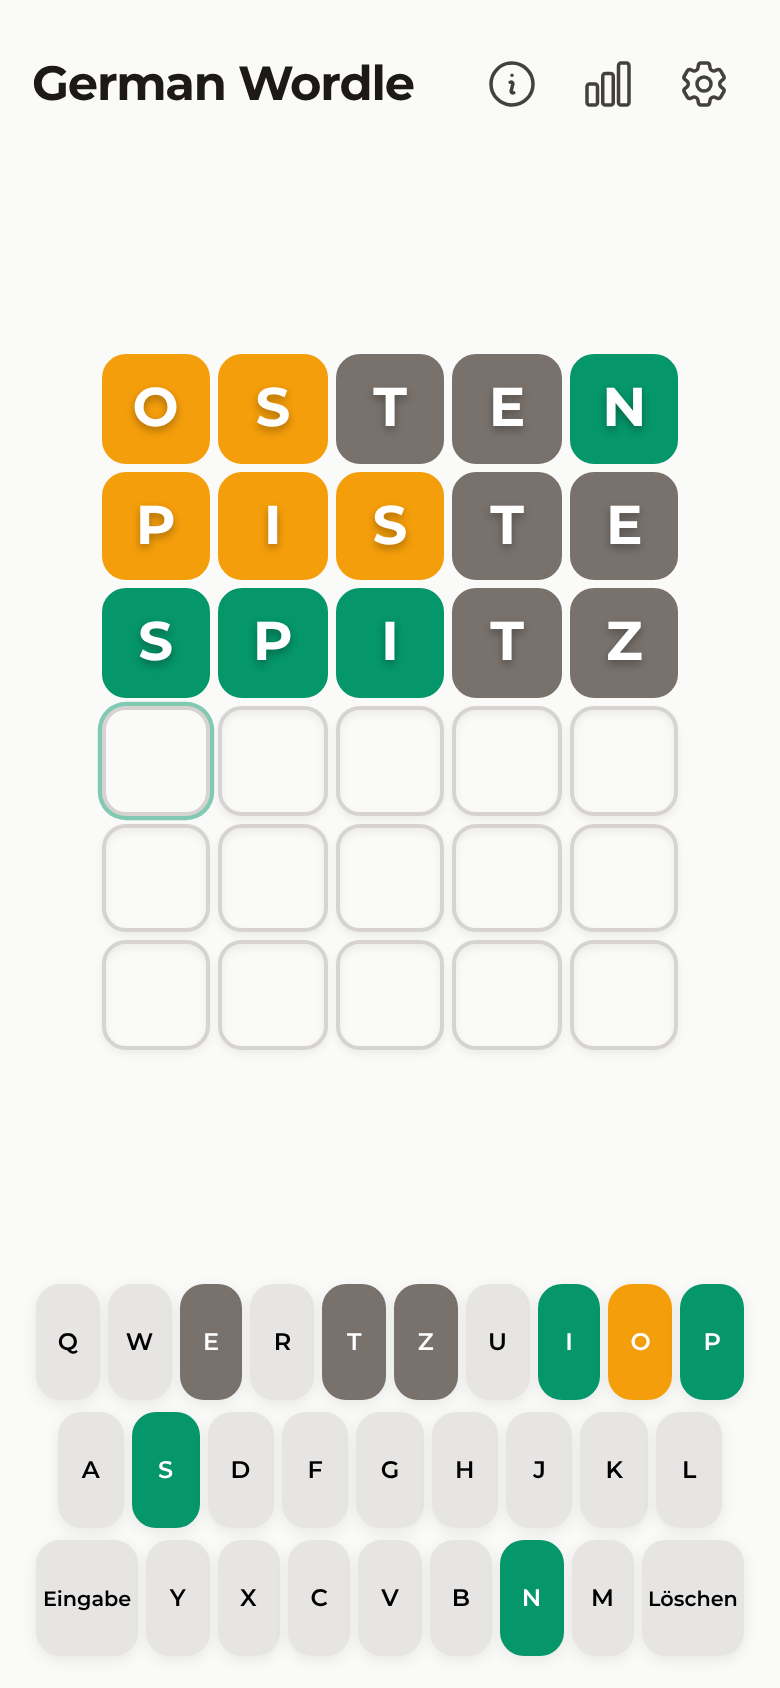
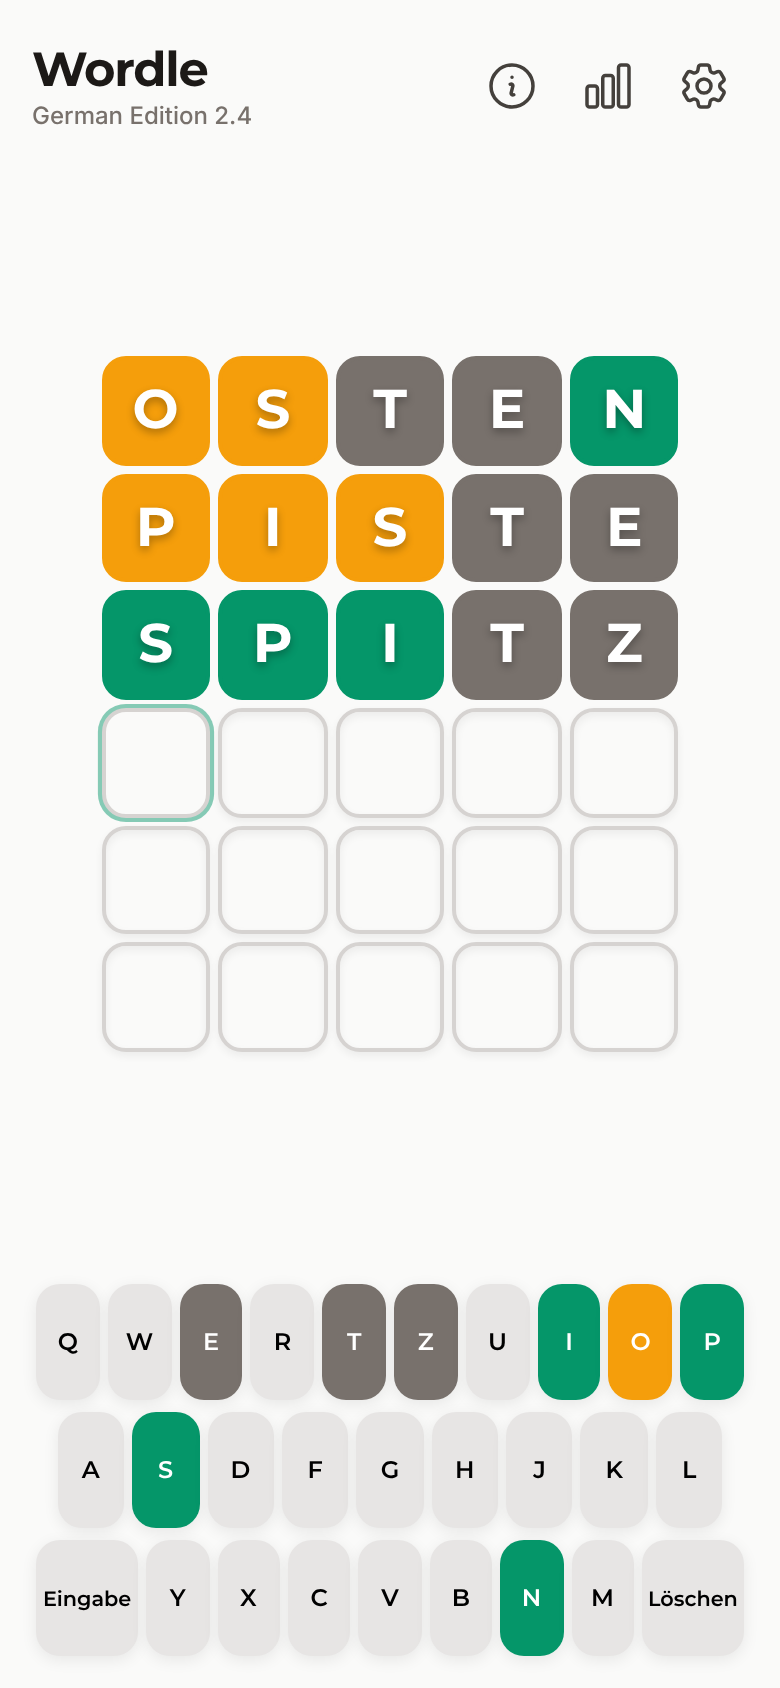
Keep title "Wordle", add "German Edition X.Y" subtitle from package version
Reverts the "German Wordle" rename. The header subtitle is derived from
package.json (major.minor) at build time; the release script updates the
README line to match.

Claude-Session: https://claude.ai/code/session_01BawsojWPZtLovEgYkkez69

diff --git a/src/App.tsx b/src/App.tsx
@@ -12,6 +12,7 @@ import { SettingsModal } from './components/modals/SettingsModal'
 import { StatsModal } from './components/modals/StatsModal'
 import {
   GAME_COPIED_MESSAGE,
+  GAME_SUBTITLE,
   GAME_TITLE,
   SHARE_FAILED_MESSAGE,
   UPDATE_AVAILABLE_MESSAGE,
@@ -103,9 +104,14 @@ function App() {
     <div className="flex min-h-[100dvh] flex-col bg-nature-stone-50 pt-[max(0.5rem,env(safe-area-inset-top))] pb-[max(0.5rem,env(safe-area-inset-bottom))] transition-colors duration-300 dark:bg-nature-stone-900">
       <div className="game-column flex min-h-0 flex-1 flex-col">
         <header className="mt-3 mb-4 flex w-full items-center gap-1">
-          <h1 className="min-w-0 grow truncate font-display text-[clamp(1rem,10vw-15px,1.75rem)] font-bold tracking-tight text-nature-stone-900 dark:text-nature-stone-50">
-            {GAME_TITLE}
-          </h1>
+          <div className="min-w-0 grow">
+            <h1 className="truncate font-display text-[clamp(1.5rem,6vw,2.25rem)] leading-tight font-bold tracking-tight text-nature-stone-900 dark:text-nature-stone-50">
+              {GAME_TITLE}
+            </h1>
+            <p className="truncate text-xs font-medium text-nature-stone-500 dark:text-nature-stone-400">
+              {GAME_SUBTITLE}
+            </p>
+          </div>
           <button
             type="button"
             className={headerIconClass}

diff --git a/vite.config.ts b/vite.config.ts
@@ -3,8 +3,12 @@ import { defineConfig } from 'vite'
 import react from '@vitejs/plugin-react'
 import tailwindcss from '@tailwindcss/vite'
 import { VitePWA } from 'vite-plugin-pwa'
+import pkg from './package.json'
 
 export default defineConfig({
+  define: {
+    __APP_VERSION__: JSON.stringify(pkg.version),
+  },
   build: {
     sourcemap: false,
   },
@@ -32,7 +36,7 @@ export default defineConfig({
       ],
       manifest: {
         short_name: 'Wordle',
-        name: 'German Wordle',
+        name: 'Wordle',
         description: 'Wordle auf Deutsch',
         start_url: '.',
         display: 'standalone',

diff --git a/src/App.test.tsx b/src/App.test.tsx
@@ -1,6 +1,6 @@
 import { render, screen } from '@testing-library/react'
 import App from './App'
-import { GAME_TITLE } from './constants/strings'
+import { GAME_SUBTITLE, GAME_TITLE } from './constants/strings'
 import { AlertProvider } from './context/AlertContext'
 
 test('renders App component', async () => {
@@ -11,4 +11,6 @@ test('renders App component', async () => {
   )
 
   expect(await screen.findByText(GAME_TITLE)).toBeInTheDocument()
+  expect(screen.getByText(GAME_SUBTITLE)).toBeInTheDocument()
+  expect(GAME_SUBTITLE).toMatch(/^German Edition \d+\.\d+$/)
 })

diff --git a/index.html b/index.html
@@ -30,11 +30,11 @@
     <meta name="theme-color" content="#1c1917" media="(prefers-color-scheme: dark)" />
     <meta name="description" content="Wordle auf Deutsch" />
     <link rel="manifest" href="/manifest.json" />
-    <title>German Wordle</title>
+    <title>Wordle</title>
   </head>
   <body>
     <noscript>
-      JavaScript muss aktiviert sein, um German Wordle spielen zu können.
+      JavaScript muss aktiviert sein, um Wordle spielen zu können.
     </noscript>
     <div id="root"></div>
     <script type="module" src="/src/index.tsx"></script>

diff --git a/src/constants/strings.ts b/src/constants/strings.ts
@@ -1,4 +1,9 @@
-export const GAME_TITLE = import.meta.env.VITE_GAME_NAME || 'German Wordle'
+export const GAME_TITLE = import.meta.env.VITE_GAME_NAME || 'Wordle'
+// Major.minor only, so patch releases don't change the subtitle
+export const GAME_SUBTITLE = `German Edition ${__APP_VERSION__
+  .split('.')
+  .slice(0, 2)
+  .join('.')}`
 
 export const WIN_MESSAGES = [
   'Gut gemacht!',

diff --git a/src/vite-env.d.ts b/src/vite-env.d.ts
@@ -1,6 +1,9 @@
 /// <reference types="vite/client" />
 /// <reference types="vite-plugin-pwa/client" />
 
+// Injected from package.json by `define` in vite.config.ts
+declare const __APP_VERSION__: string
+
 interface ImportMetaEnv {
   readonly VITE_GAME_NAME: string
   readonly VITE_GAME_DESCRIPTION: string

diff --git a/README.md b/README.md
@@ -1,13 +1,13 @@
-# German Wordle
+# Wordle
 
-**Edition 2.0**
+**German Edition 2.4**
 
 [![Test](https://github.com/matthabjan/wordle/actions/workflows/test.yml/badge.svg)](https://github.com/matthabjan/wordle/actions/workflows/test.yml)
 [![Lint](https://github.com/matthabjan/wordle/actions/workflows/lint.yml/badge.svg)](https://github.com/matthabjan/wordle/actions/workflows/lint.yml)
 [![Docker](https://github.com/matthabjan/wordle/actions/workflows/docker.yml/badge.svg)](https://hub.docker.com/r/matthabjan/wordle)
 [![License: MIT](https://img.shields.io/badge/license-MIT-blue.svg)](LICENSE)
 
-German Wordle is a daily word puzzle in the spirit of Wordle: guess the five-letter word in six tries. It's a self-hostable Progressive Web App (PWA) with no ads, no tracking and no accounts. Your progress stays on your device. An optional leaderboard, shared by passphrase, lets friends compare results.
+Wordle – German Edition is a daily word puzzle in the spirit of Wordle: guess the five-letter word in six tries. It's a self-hostable Progressive Web App (PWA) with no ads, no tracking and no accounts. Your progress stays on your device. An optional leaderboard, shared by passphrase, lets friends compare results.
 
 <p align="center">
   <img src="docs/screenshots/game.png" alt="Game board with three guesses and colour-coded keyboard" width="260">

diff --git a/docs/development.md b/docs/development.md
@@ -27,10 +27,10 @@ LEADERBOARD_PASSPHRASE=devsecret npm start   # http://localhost:3001
 
 | Variable | Purpose | Default in `.env.example` |
 |---|---|---|
-| `VITE_GAME_NAME` | Title in the header and share text | `German Wordle` |
+| `VITE_GAME_NAME` | Title in the header and share text | `Wordle` |
 | `VITE_GAME_DESCRIPTION` | Meta description | `Wordle auf Deutsch` |
 
-These values are baked into the static bundle at build time. Runtime settings for the leaderboard are listed in [Leaderboard → Configuration](leaderboard.md#configuration).
+These values are baked into the static bundle at build time. The subtitle under the title (*German Edition 2.4*) is not configurable: it comes from the `package.json` version (major.minor) via `__APP_VERSION__` in `vite.config.ts`. Runtime settings for the leaderboard are listed in [Leaderboard → Configuration](leaderboard.md#configuration).
 
 ## Scripts
 
@@ -146,4 +146,4 @@ npm run release:patch     # or release:minor / release:major
 git push --follow-tags    # tag vX.Y.Z triggers the Docker release
 ```
 
-The `release:*` scripts keep both versions in sync. The tag must be `v` followed by the `package.json` version.
+The `release:*` scripts keep both versions in sync and update the *German Edition X.Y* line in `README.md`. The tag must be `v` followed by the `package.json` version.

diff --git a/DOCKER.md b/DOCKER.md
@@ -55,7 +55,7 @@ Edit `.env.docker` to configure your deployment:
 
 ```bash
 WORDLE_PORT=8080
-VITE_GAME_NAME=German Wordle
+VITE_GAME_NAME=Wordle
 VITE_GAME_DESCRIPTION=Wordle auf Deutsch
 LEADERBOARD_PASSPHRASE=change-me
 ```
@@ -159,7 +159,7 @@ CI (`.github/workflows/docker.yml`) publishes multi-arch (`amd64`, `arm64`) imag
 | `sha-<short>`                 | every `main` push and release |
 
 Use them in place of `wordle:prod` / `wordle-leaderboard-api:prod` in the stacks below, e.g. `image: matthabjan/wordle:2`.
-Prebuilt images bake in `VITE_GAME_NAME` / `VITE_GAME_DESCRIPTION` from the GitHub repository variables of the same name (default `German Wordle` / `Wordle auf Deutsch`); build locally for other values.
+Prebuilt images bake in `VITE_GAME_NAME` / `VITE_GAME_DESCRIPTION` from the GitHub repository variables of the same name (default `Wordle` / `Wordle auf Deutsch`); build locally for other values.
 
 ### Releasing
 
@@ -187,7 +187,7 @@ Run the [prebuilt images](#prebuilt-images-docker-hub) from your own Portainer/T
 
 ```bash
 docker build --target prod -t wordle:prod \
-  --build-arg VITE_GAME_NAME="German Wordle" \
+  --build-arg VITE_GAME_NAME="Wordle" \
   --build-arg VITE_GAME_DESCRIPTION="Wordle auf Deutsch" \
   .
 
